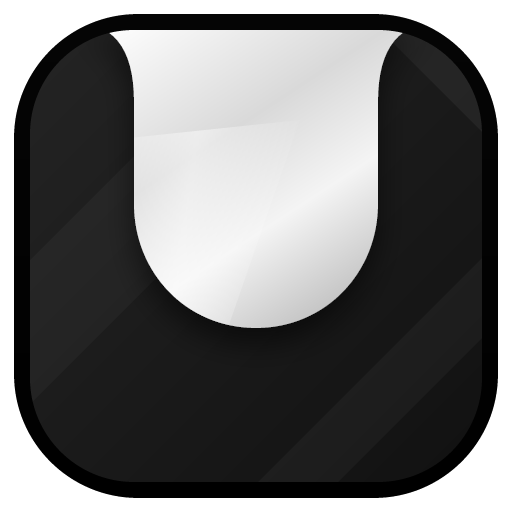
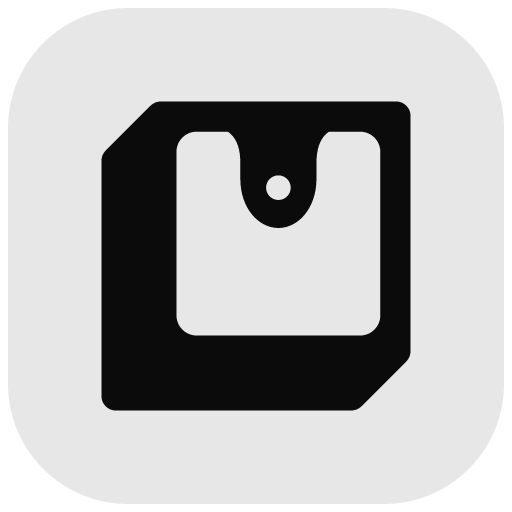
feat: new mark, a screen with a notch and camera dot (flat black body, light face)

diff --git a/src/components/Logo.tsx b/src/components/Logo.tsx
@@ -1,9 +1,8 @@
-import { memo, forwardRef, type SVGProps } from 'react'
-
-const PATH = 'M70 22H442C400 22 378 46 378 102V204C378 272 326 328 256 328C186 328 134 272 134 204V102C134 46 112 22 70 22Z'
+import { memo, forwardRef, useId, type SVGProps } from 'react'
+import { MARK } from '../lib/markShapes'
 
 export interface LogoProps extends Omit<SVGProps<SVGSVGElement>, 'children'> {
-  /** Rendered size in px (or any CSS length). Square — the artwork is 1:1. */
+  /** Rendered size in px (or any CSS length). Square: the artwork is 1:1. */
   size?: number | string
   /**
    * Accessible label. Omit for decorative use (the default) and the SVG is
@@ -13,22 +12,21 @@ export interface LogoProps extends Omit<SVGProps<SVGSVGElement>, 'children'> {
 }
 
 /**
- * The hovr mark.
- *
- * Inherits `currentColor`, so it takes the surrounding text color and can be
- * transitioned via CSS `color` — which is what lets it tint on hover alongside
- * the rest of the blade without a second render path.
- *
- * The notch silhouette (same shape as the app icon).
+ * The hovr mark: a screen seen at an angle with a notch (and its camera dot) hanging
+ * from the top edge. Drawn in `currentColor` with the face cut out, so it takes the
+ * surrounding text colour. The shapes come from scripts/make-icons.cjs, which also
+ * renders the app icon, so the two never drift apart.
  */
 export const Logo = memo(
   forwardRef<SVGSVGElement, LogoProps>(function Logo({ size = 24, title, ...props }, ref) {
+    const mask = `logo-${useId().replace(/[^a-zA-Z0-9]/g, '')}`
+    const { BODY, FACE, NOTCH, DOT, STROKE } = MARK
     return (
       <svg
         ref={ref}
         width={size}
         height={size}
-        viewBox="0 0 512 512"
+        viewBox="100 120 310 310"
         fill="none"
         xmlns="http://www.w3.org/2000/svg"
         role={title ? 'img' : undefined}
@@ -37,7 +35,15 @@ export const Logo = memo(
         {...props}
       >
         {title ? <title>{title}</title> : null}
-        <path fillRule="evenodd" clipRule="evenodd" d={PATH} fill="currentColor" />
+        <defs>
+          <mask id={mask} maskUnits="userSpaceOnUse" x="0" y="0" width="512" height="512">
+            <polygon points={BODY} fill="#fff" stroke="#fff" strokeWidth={STROKE} strokeLinejoin="round" />
+            <rect x={FACE.x} y={FACE.y} width={FACE.w} height={FACE.h} rx={FACE.r} fill="#000" />
+            <path d={NOTCH} fill="#fff" />
+            <circle cx={DOT.cx} cy={DOT.cy} r={DOT.r} fill="#000" />
+          </mask>
+        </defs>
+        <rect width="512" height="512" fill="currentColor" mask={`url(#${mask})`} />
       </svg>
     )
   })

diff --git a/src/lib/markShapes.ts b/src/lib/markShapes.ts
@@ -1,0 +1,18 @@
+/** Generated by scripts/make-icons.cjs. The hovr mark in a 512 box. */
+export const MARK = {
+  "BODY": "130,190 170,150 380,150 380,360 340,400 130,400",
+  "FACE": {
+    "x": 184,
+    "y": 164,
+    "w": 182,
+    "h": 182,
+    "r": 18
+  },
+  "NOTCH": "M205 158C230 158 241 168 241 192V206C241 232 257 250 275 250C293 250 309 232 309 206V192C309 168 320 158 345 158Z",
+  "DOT": {
+    "cx": 275,
+    "cy": 214,
+    "r": 11
+  },
+  "STROKE": 26
+} as const
